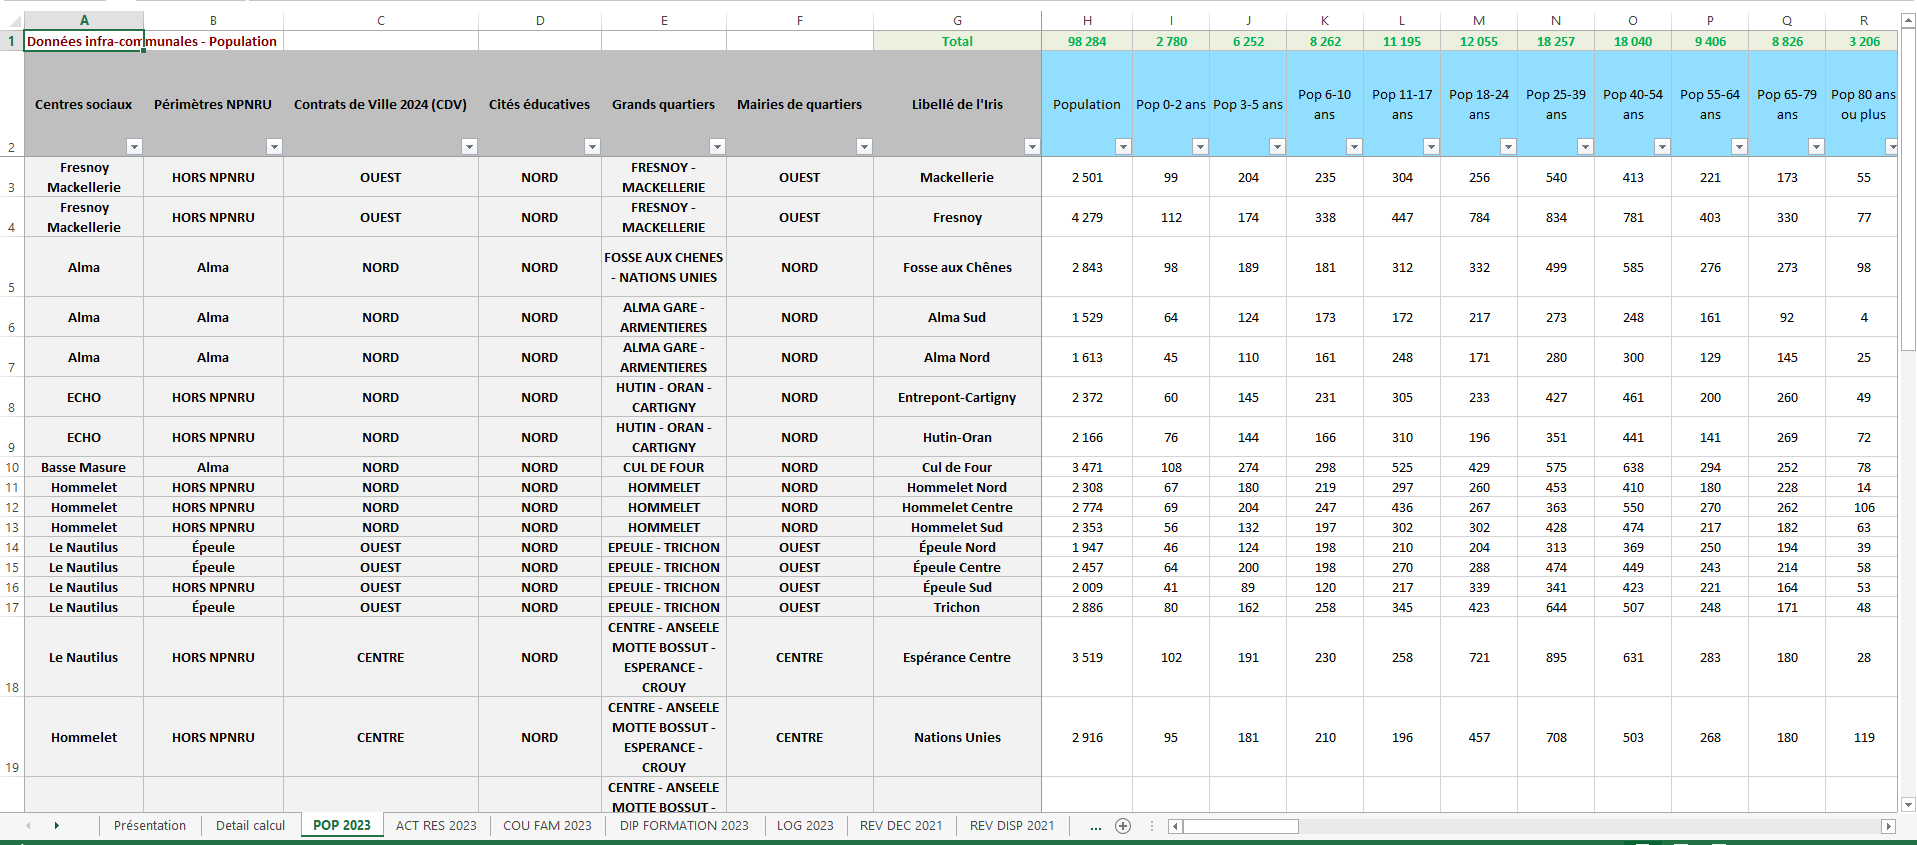
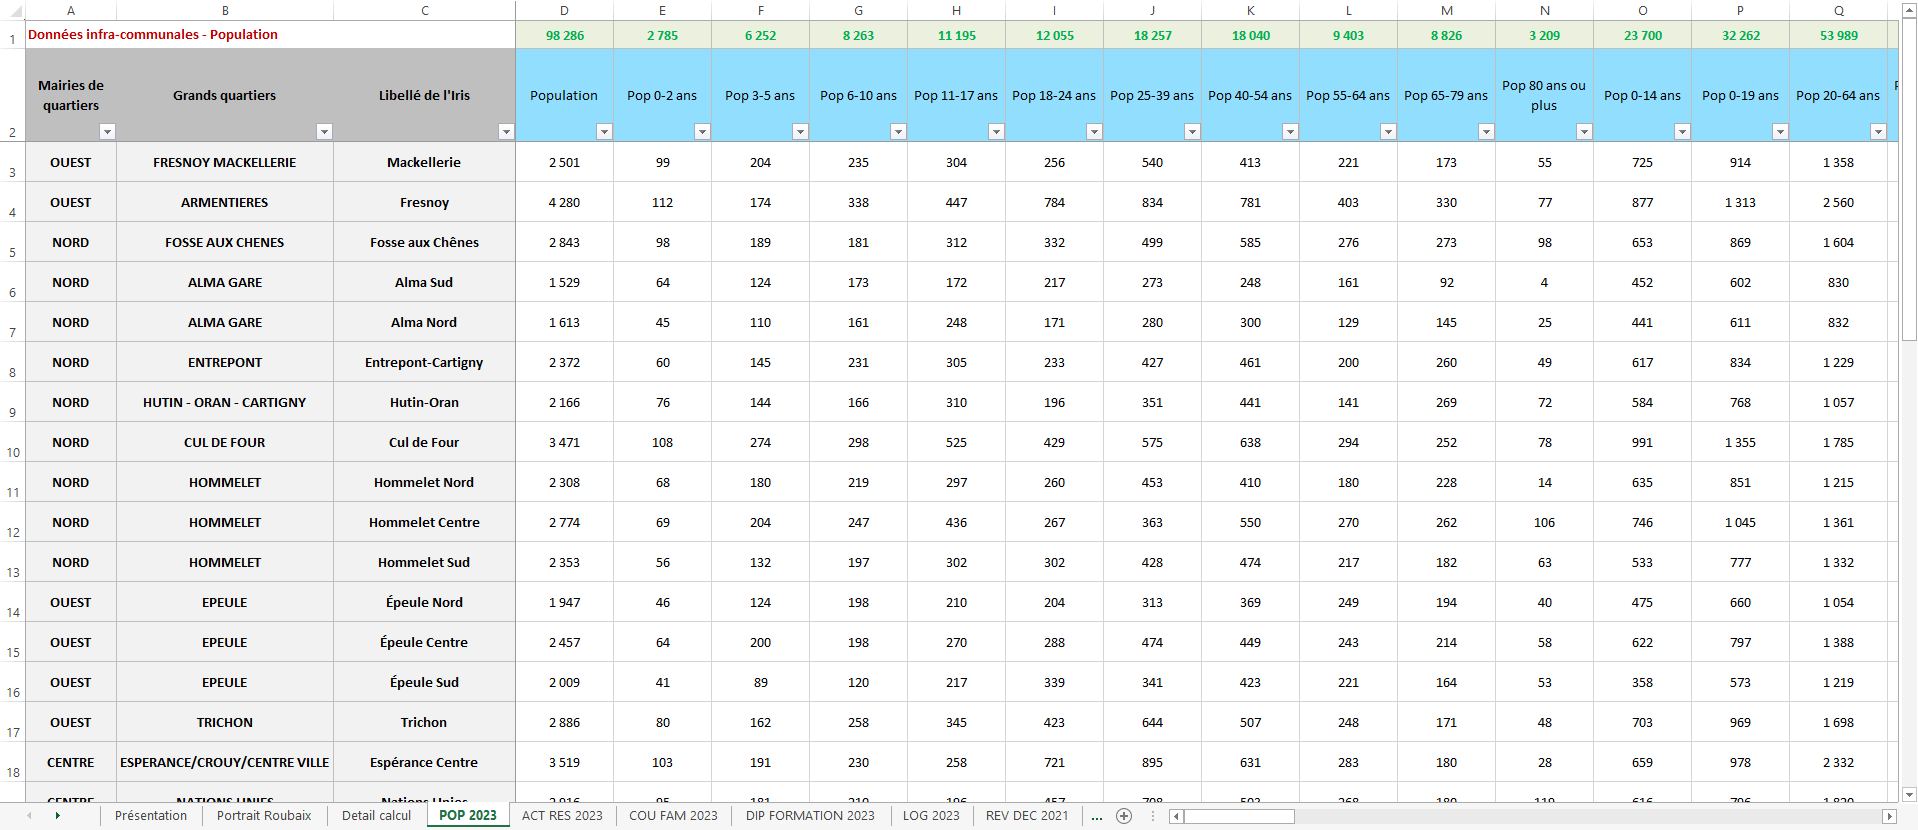
README : captures du classeur mises à jour
Nouvelles captures de la Présentation et de l'onglet POP (colonnes
grises Mairies de quartiers / Grands quartiers / Libellé de l'Iris, mise
en page aérée) et ajout de la capture de l'onglet Portrait Roubaix.

Claude-Session: https://claude.ai/code/session_01S3gFAB963n54SZvyZfPdyZ

Changed region(s): [[0.0, 0.0, 1.0, 1.0]]

diff --git a/README.md b/README.md
@@ -45,6 +45,8 @@ La page **Présentation** est générée selon le lot : millésime de chaque sou
 
 Juste après, l'onglet **Portrait Roubaix** donne les chiffres clés de la ville en quatre blocs (démographie, emploi et formation, revenus et prestations, logement). Chaque valeur est une formule Excel qui pointe vers les onglets thématiques : un effectif est la somme des IRIS, une part est une somme divisée par une somme, et les indicateurs Filosofi affichent l'IRIS le plus bas et le plus haut. Un lien renvoie vers l'onglet source.
 
+![Classeur : onglet Portrait Roubaix](doc/img/excel-portrait.png)
+
 Chaque onglet thématique contient une ligne par IRIS. Trois colonnes grises situent l'IRIS : **Mairies de quartiers**, **Grands quartiers** (noms issus de `dictionnaires/grand_quartier.yml`) et **Libellé de l'Iris** (libellé Insee). Les en-têtes bleus sont les effectifs (avec ligne Total), les orange les indicateurs (taux, densités, indices), regroupés à droite. La mise en page est aérée : cellules centrées, lignes d'IRIS à 30 pt, colonnes dimensionnées selon leur contenu.
 
 ![Classeur : onglet Population, effectifs](doc/img/excel-effectifs.png)
